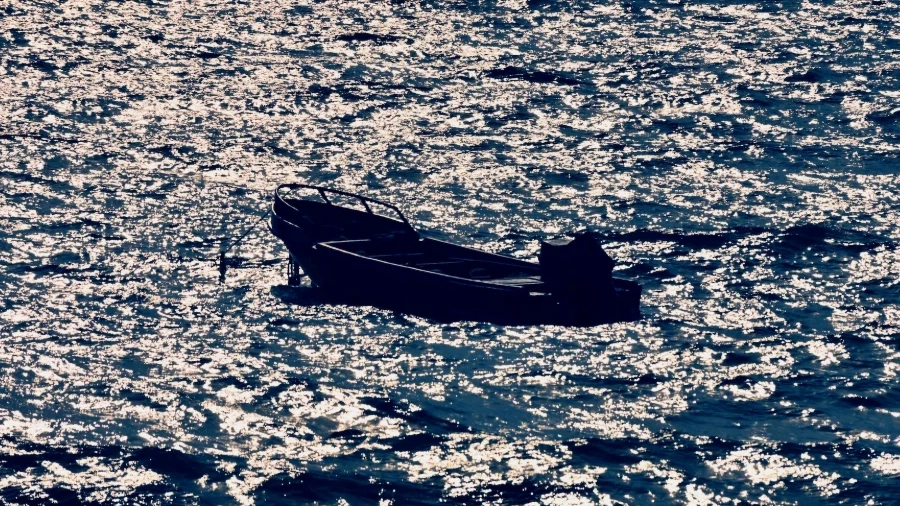
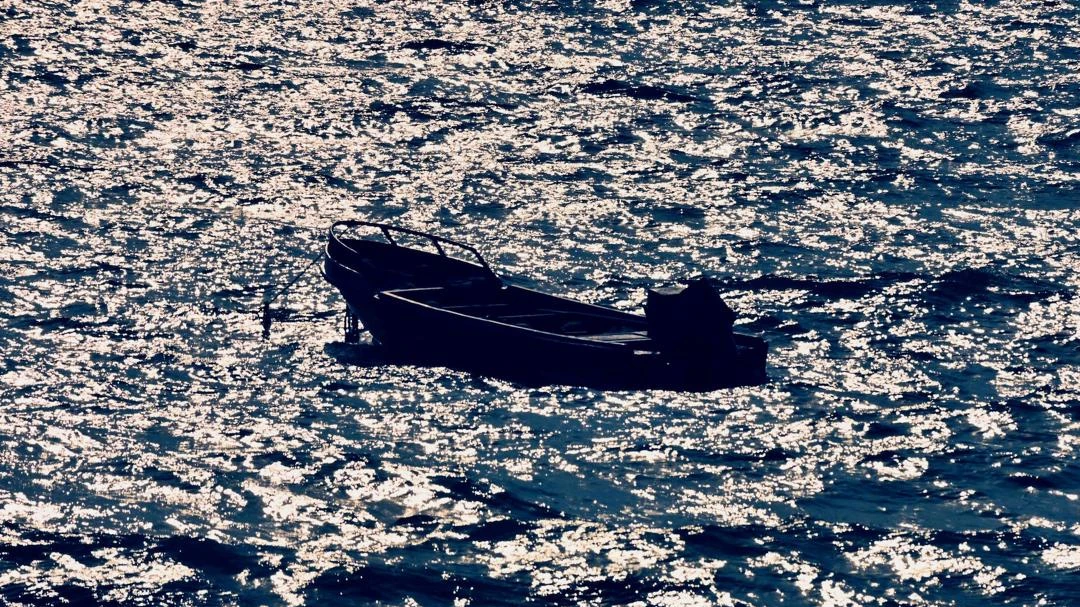
feat(hero): use the original Crucita photo instead of the screenshot
Same framing as before, cropped from the original at 1080x607 (was 900x506),
with the caption coordinates rescaled to the new file.

diff --git a/src/app/[locale]/page.tsx b/src/app/[locale]/page.tsx
@@ -48,14 +48,14 @@ export default function LandingPage() {
             <span>{t("line2")}</span>
           </h1>
           {/* Pinned just under the boat. The photo is object-cover and
-              centred, so its scale is max(width/900, height/506) and a point
-              (x, y) in the 900×506 file sits at 50% + (x - 450, y - 253) × scale. */}
+              centred, so its scale is max(width/1080, height/607) and a point
+              (x, y) in the 1080×607 file sits at 50% + (x - 540, y - 303.5) × scale. */}
           <figcaption
             className="font-editorial absolute -translate-x-full bg-[#ED1C24] px-2.5 py-1 text-[clamp(15px,1.2vw,19px)] leading-tight whitespace-nowrap text-white"
             style={{
-              // Right edge flush with the boat's stern (x ≈ 646).
-              left: "calc(50cqw + 196 * max(100cqw / 900, 100cqh / 506))",
-              top: "calc(50cqh + 92 * max(100cqw / 900, 100cqh / 506))",
+              // Right edge flush with the boat's stern (x ≈ 775).
+              left: "calc(50cqw + 235 * max(100cqw / 1080, 100cqh / 607))",
+              top: "calc(50cqh + 110 * max(100cqw / 1080, 100cqh / 607))",
             }}
           >
             Crucita, Ecuador. 2026
